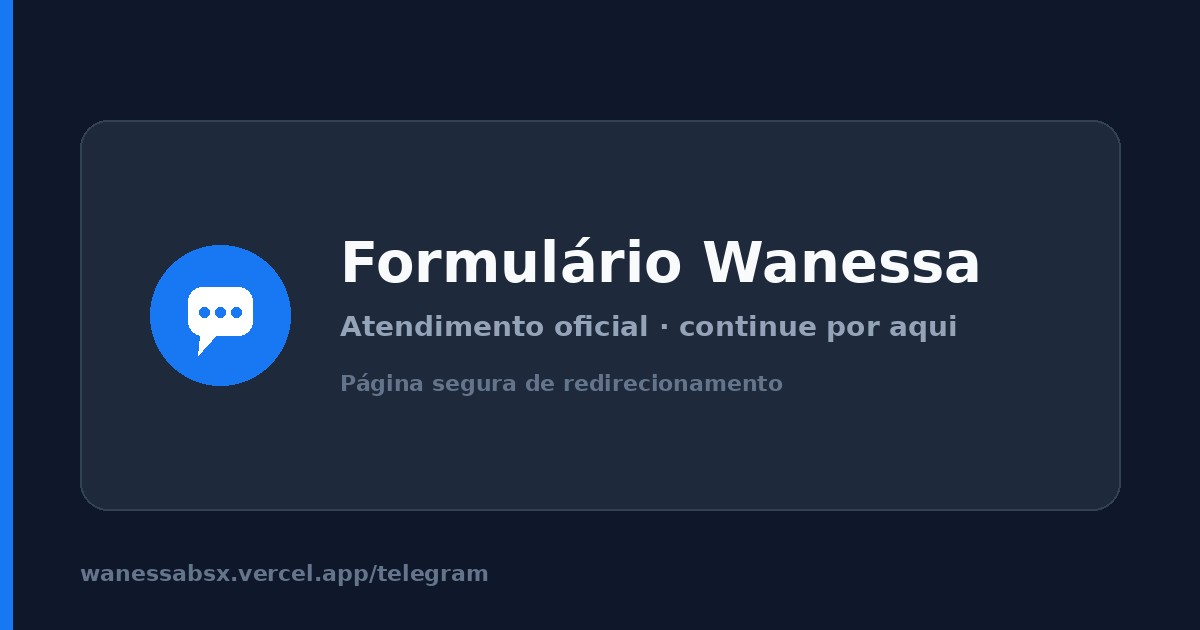
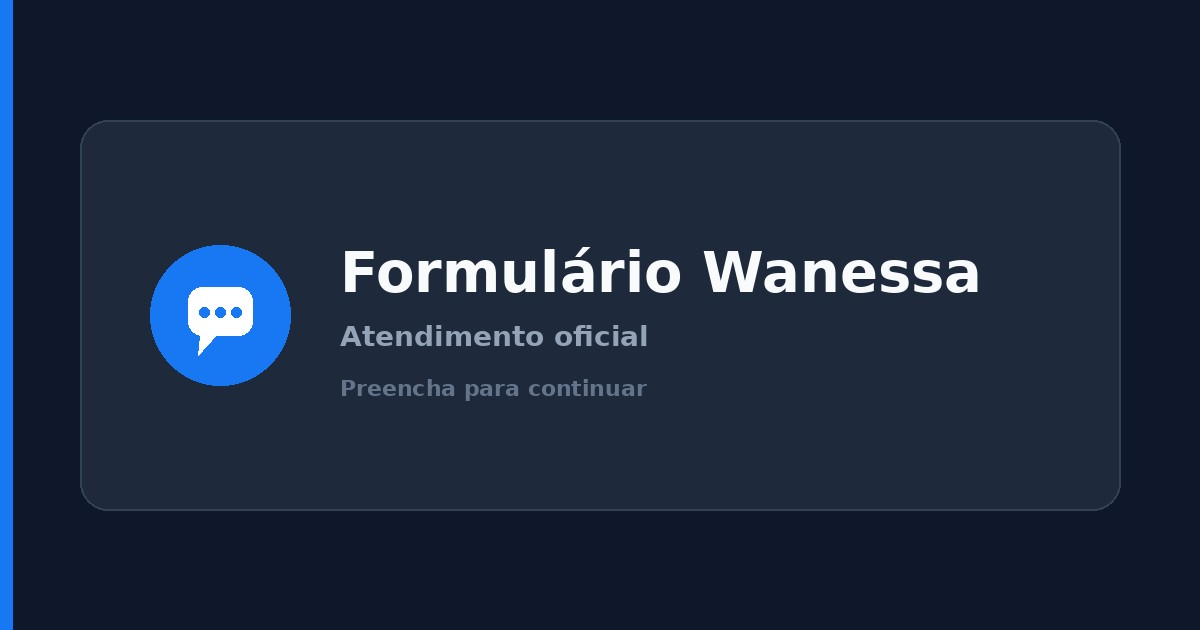
fix(/telegram): prévia OG como formulário (sem texto de redirecionamento)

Changed region(s): [[0.2775, 0.3619, 0.8325, 0.573], [0.2775, 0.6032, 0.6475, 0.6333], [0.0617, 0.9048, 0.4008, 0.9349]]

diff --git a/pages/telegram.vue b/pages/telegram.vue
@@ -11,11 +11,11 @@ const OG_IMAGE = 'https://wanessabsx.vercel.app/og-telegram.jpg'
 
 useSeoMeta({
   title: 'Formulário Wanessa',
-  description: 'Formulário de Wanessa — página de atendimento e redirecionamento oficial.',
+  description: 'Formulário de Wanessa — atendimento oficial.',
   robots: 'index, follow',
   author: 'Wanessa',
   ogTitle: 'Formulário Wanessa',
-  ogDescription: 'Formulário oficial de Wanessa para continuar o atendimento.',
+  ogDescription: 'Formulário oficial de Wanessa.',
   ogType: 'website',
   ogUrl: 'https://wanessabsx.vercel.app/telegram',
   ogSiteName: 'Wanessa',
@@ -28,7 +28,7 @@ useSeoMeta({
   ogImageAlt: 'Formulário Wanessa',
   twitterCard: 'summary_large_image',
   twitterTitle: 'Formulário Wanessa',
-  twitterDescription: 'Formulário oficial de Wanessa para continuar o atendimento.',
+  twitterDescription: 'Formulário oficial de Wanessa.',
   twitterImage: OG_IMAGE,
   twitterImageAlt: 'Formulário Wanessa',
 })
@@ -55,7 +55,7 @@ useHead({
         '@context': 'https://schema.org',
         '@type': 'WebPage',
         name: 'Formulário Wanessa',
-        description: 'Formulário oficial de Wanessa — atendimento e redirecionamento.',
+        description: 'Formulário oficial de Wanessa — atendimento.',
         url: 'https://wanessabsx.vercel.app/telegram',
         inLanguage: 'pt-BR',
         primaryImageOfPage: { '@type': 'ImageObject', url: OG_IMAGE },
